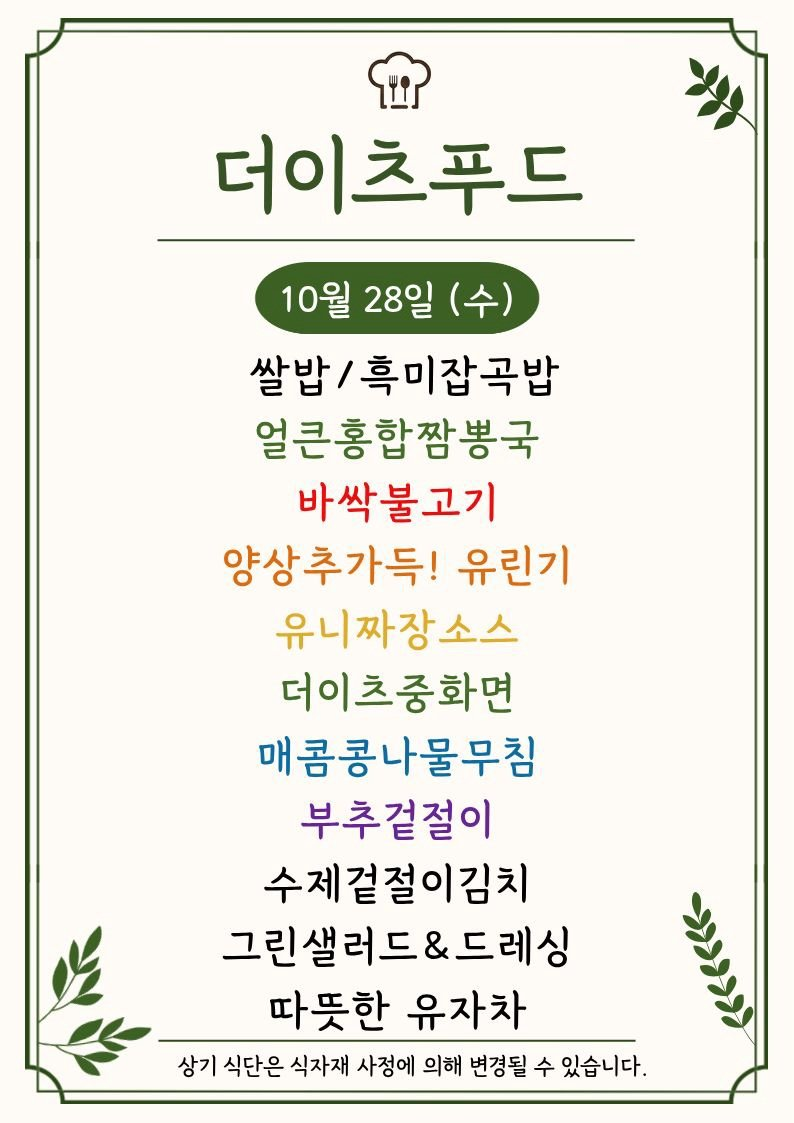
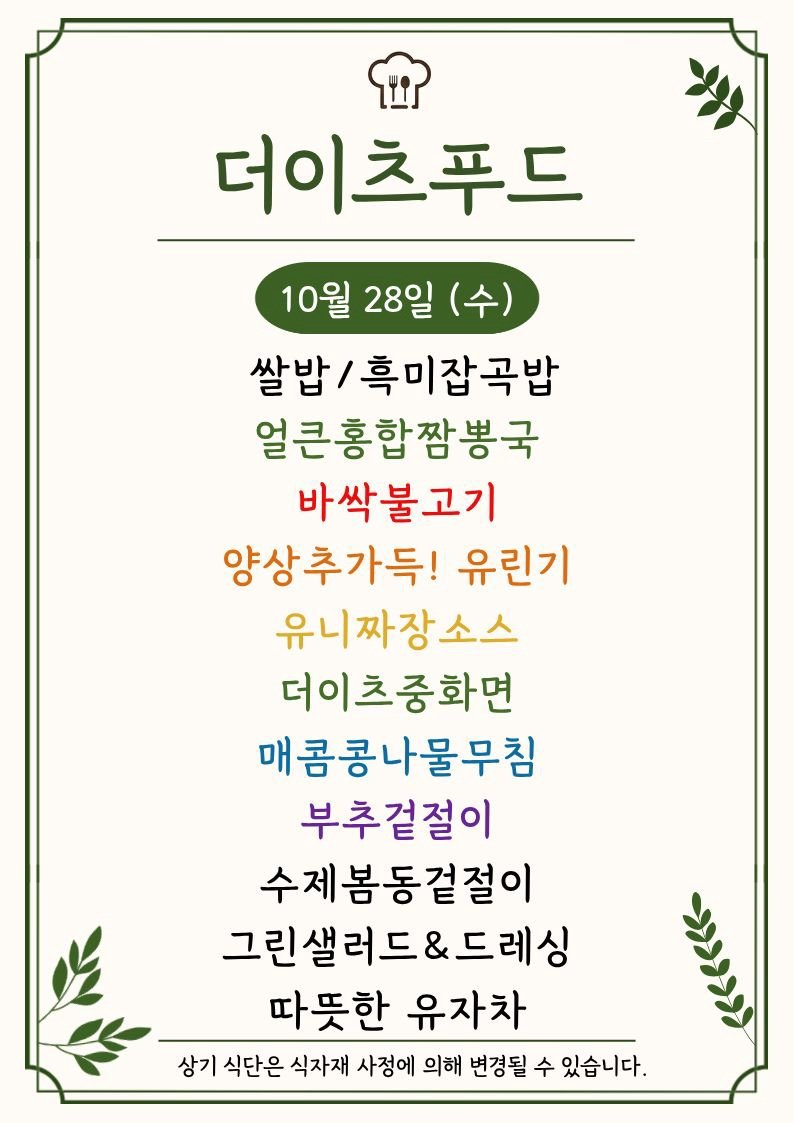
Update menu board assets

Changed region(s): [[0.3325, 0.748, 0.665, 0.8103]]

diff --git a/menu-today/index.html b/menu-today/index.html
@@ -209,7 +209,7 @@
 
     <section class="meta-bar">
       <div class="meta-card"><div class="meta-label">기준 날짜</div><div class="meta-value">2026년 10월 28일 수요일</div></div>
-      <div class="meta-card"><div class="meta-label">최종 가져온 시간</div><div class="meta-value">2026-10-28 10:33:37</div></div>
+      <div class="meta-card"><div class="meta-label">최종 가져온 시간</div><div class="meta-value">2026-10-28 10:48:39</div></div>
       <div class="meta-card"><div class="meta-label">확인 완료</div><div class="meta-value">9개 식당</div></div>
       <div class="meta-card"><div class="meta-label">준비중</div><div class="meta-value">3개 채널</div></div>
     </section>
@@ -225,7 +225,7 @@
             <div class="sub">현대테라타워 가산DK</div>
           </div>
         </div>
-        <div class="menu-inline-image"><img src="./images/imeal.png" alt="아이밀 식단 이미지"></div><ul><li>건새우아욱국</li><li>뼈없는돈사태갈비양념찜</li><li>순대,김말이강정</li><li>연두부 &amp; 양념장</li><li>과리고추감자조림</li><li>가든샐러드 &amp; 흑임자D</li><li>백미밥 / 흑미밥</li><li>사태갈비양념찜</li><li>타사을료</li><li>으으</li></ul>
+        <div class="menu-inline-image"><img src="./images/imeal.png" alt="아이밀 식단 이미지"></div><ul><li>건새우아욱국</li><li>뼈없는돈사태갈비양념찜</li><li>순대,김말이강정</li><li>연두부 &amp; 양념장</li><li>과리고추감자조림</li><li>가든샐러드</li><li>백미밥 / 흑미밥</li><li>사태갈비양념찜</li><li>타사을료</li><li>으으</li></ul>
       </article>
 
       <article class="restaurant-card">
@@ -265,7 +265,7 @@
             <div class="sub">가산비즈니스센터</div>
           </div>
         </div>
-        <div class="menu-inline-image"><img src="./images/raonfood.png" alt="구내식당라온푸드 식단 이미지"></div><ul><li>소고 / 콩나물육개장</li><li>통닭다리살튀김</li><li>제육고주잠불고 )</li><li>소고)미나리파스타</li><li>소지지전,동그람맹전</li><li>우염재조림</li><li>숙주나물 무침</li><li>쌈재소*쌈잠</li><li>ae &amp; 잡곡밥</li></ul>
+        <div class="menu-inline-image"><img src="./images/raonfood.png" alt="구내식당라온푸드 식단 이미지"></div><ul><li>소고 / 콩나물육개장</li><li>통닭다리살튀김</li><li>제육고주잠불고 )</li><li>소고)미나리파스타</li><li>소지지전,동그람맹전</li><li>우염재조림</li><li>숙주나물무침</li><li>쌈재소*쌈잠</li><li>ae &amp; 잡곡밥</li></ul>
       </article>
 
       <article class="restaurant-card">

diff --git a/guro-menu/index.html b/guro-menu/index.html
@@ -32,7 +32,7 @@
   </header>
   <section class="meta">
     <div><small>기준 날짜</small><strong>2026년 10월 28일 수요일</strong></div>
-    <div><small>최종 갱신</small><strong>2026-10-28 10:33:49</strong></div>
+    <div><small>최종 갱신</small><strong>2026-10-28 10:48:53</strong></div>
     <div><small>등록 식당</small><strong>5개</strong></div>
   </section>
   <div class="notice">공개 카카오 채널의 메뉴 이미지를 자동 수집하고 OCR로 정리합니다. 텍스트에 오타가 있을 수 있으니 식단 이미지를 함께 확인해 주세요.</div>
@@ -76,7 +76,7 @@
         </div>
         <img class="menu-image" src="./images/the-eats-food.png" alt="더이츠푸드 식단 이미지" loading="lazy">
         
-        <ul><li>더이츠푸느</li><li>쌀밥/흑미잡곡밥</li><li>양상추가득! 유린기</li><li>더이츠중화면</li><li>매콤콩나물무침</li><li>부추겉절이</li><li>수제겉절이김치 4</li><li>그린샐러드&amp;드레싱 Y</li><li>따뜻한 유자차</li></ul>
+        <ul><li>쌀밥/흑미잡곡밥</li><li>양상추가득! 유린기</li><li>더이츠중화면</li><li>매콤콩나물무침</li><li>부추겉절이</li><li>수제봄동겉절이 4</li><li>그린샐러드&amp;드레싱 Y</li><li>따뜻한 유자차</li></ul>
       </article>
 
       <article class="restaurant-card">
